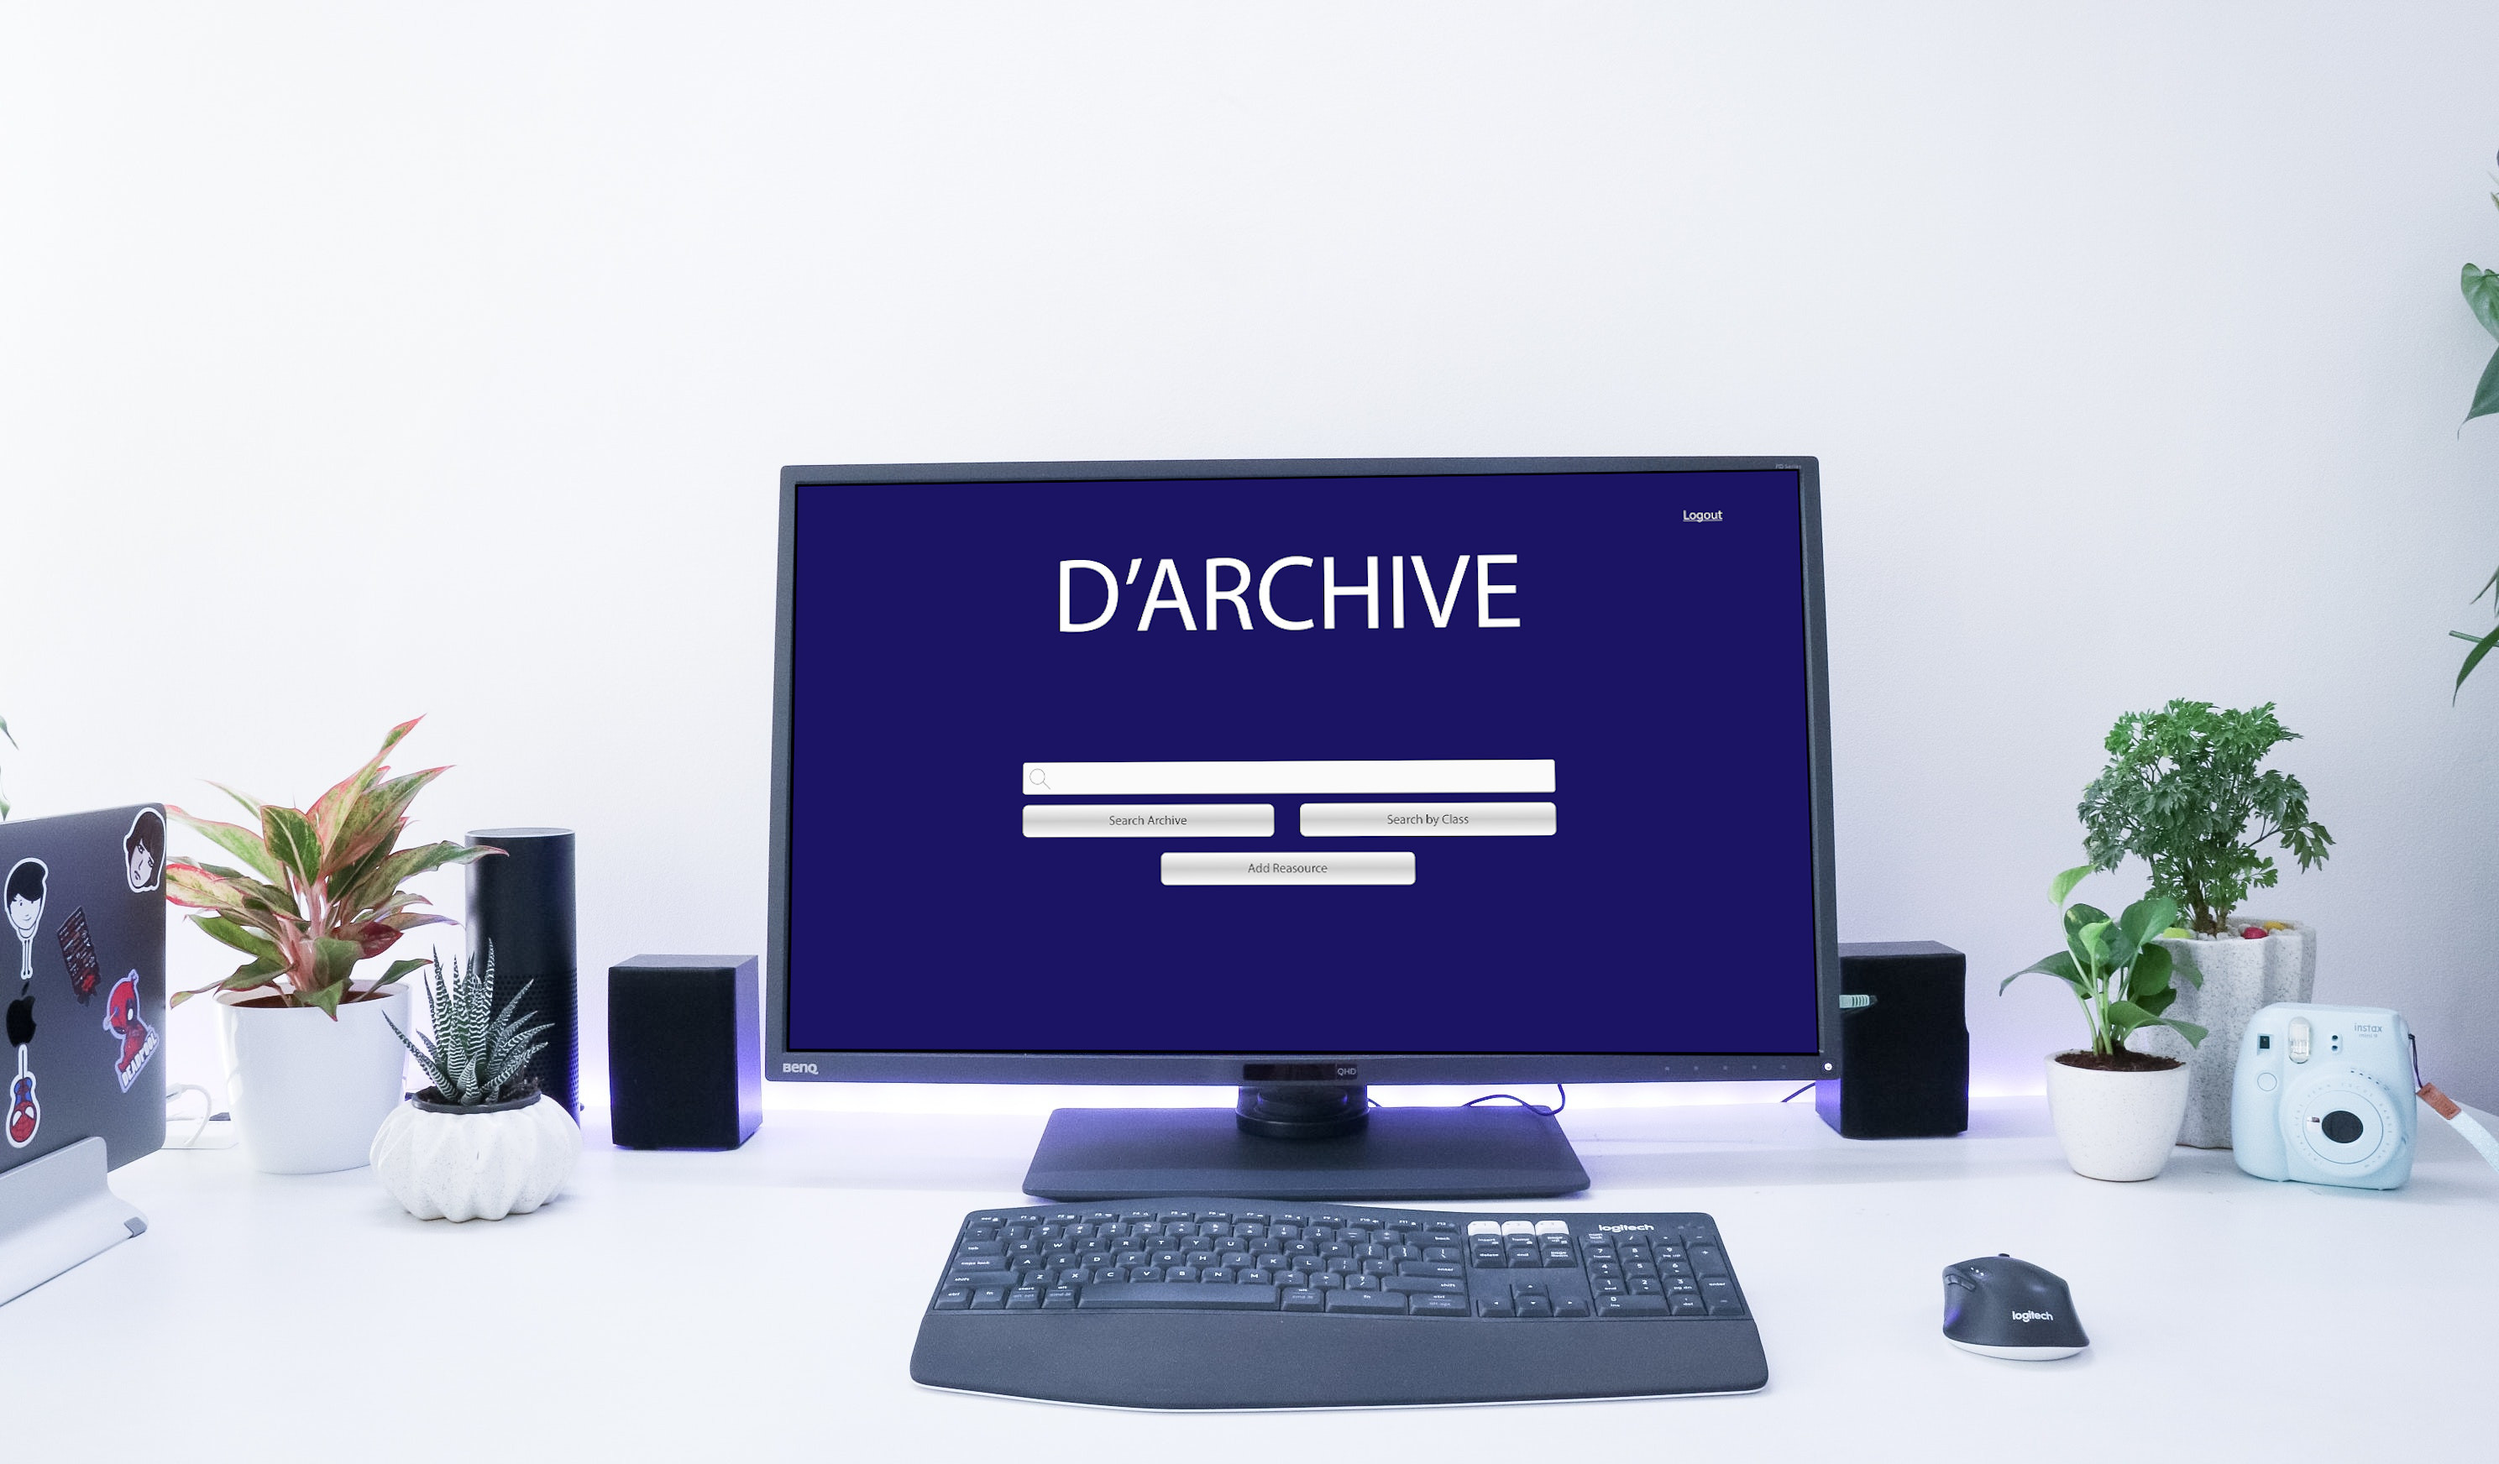
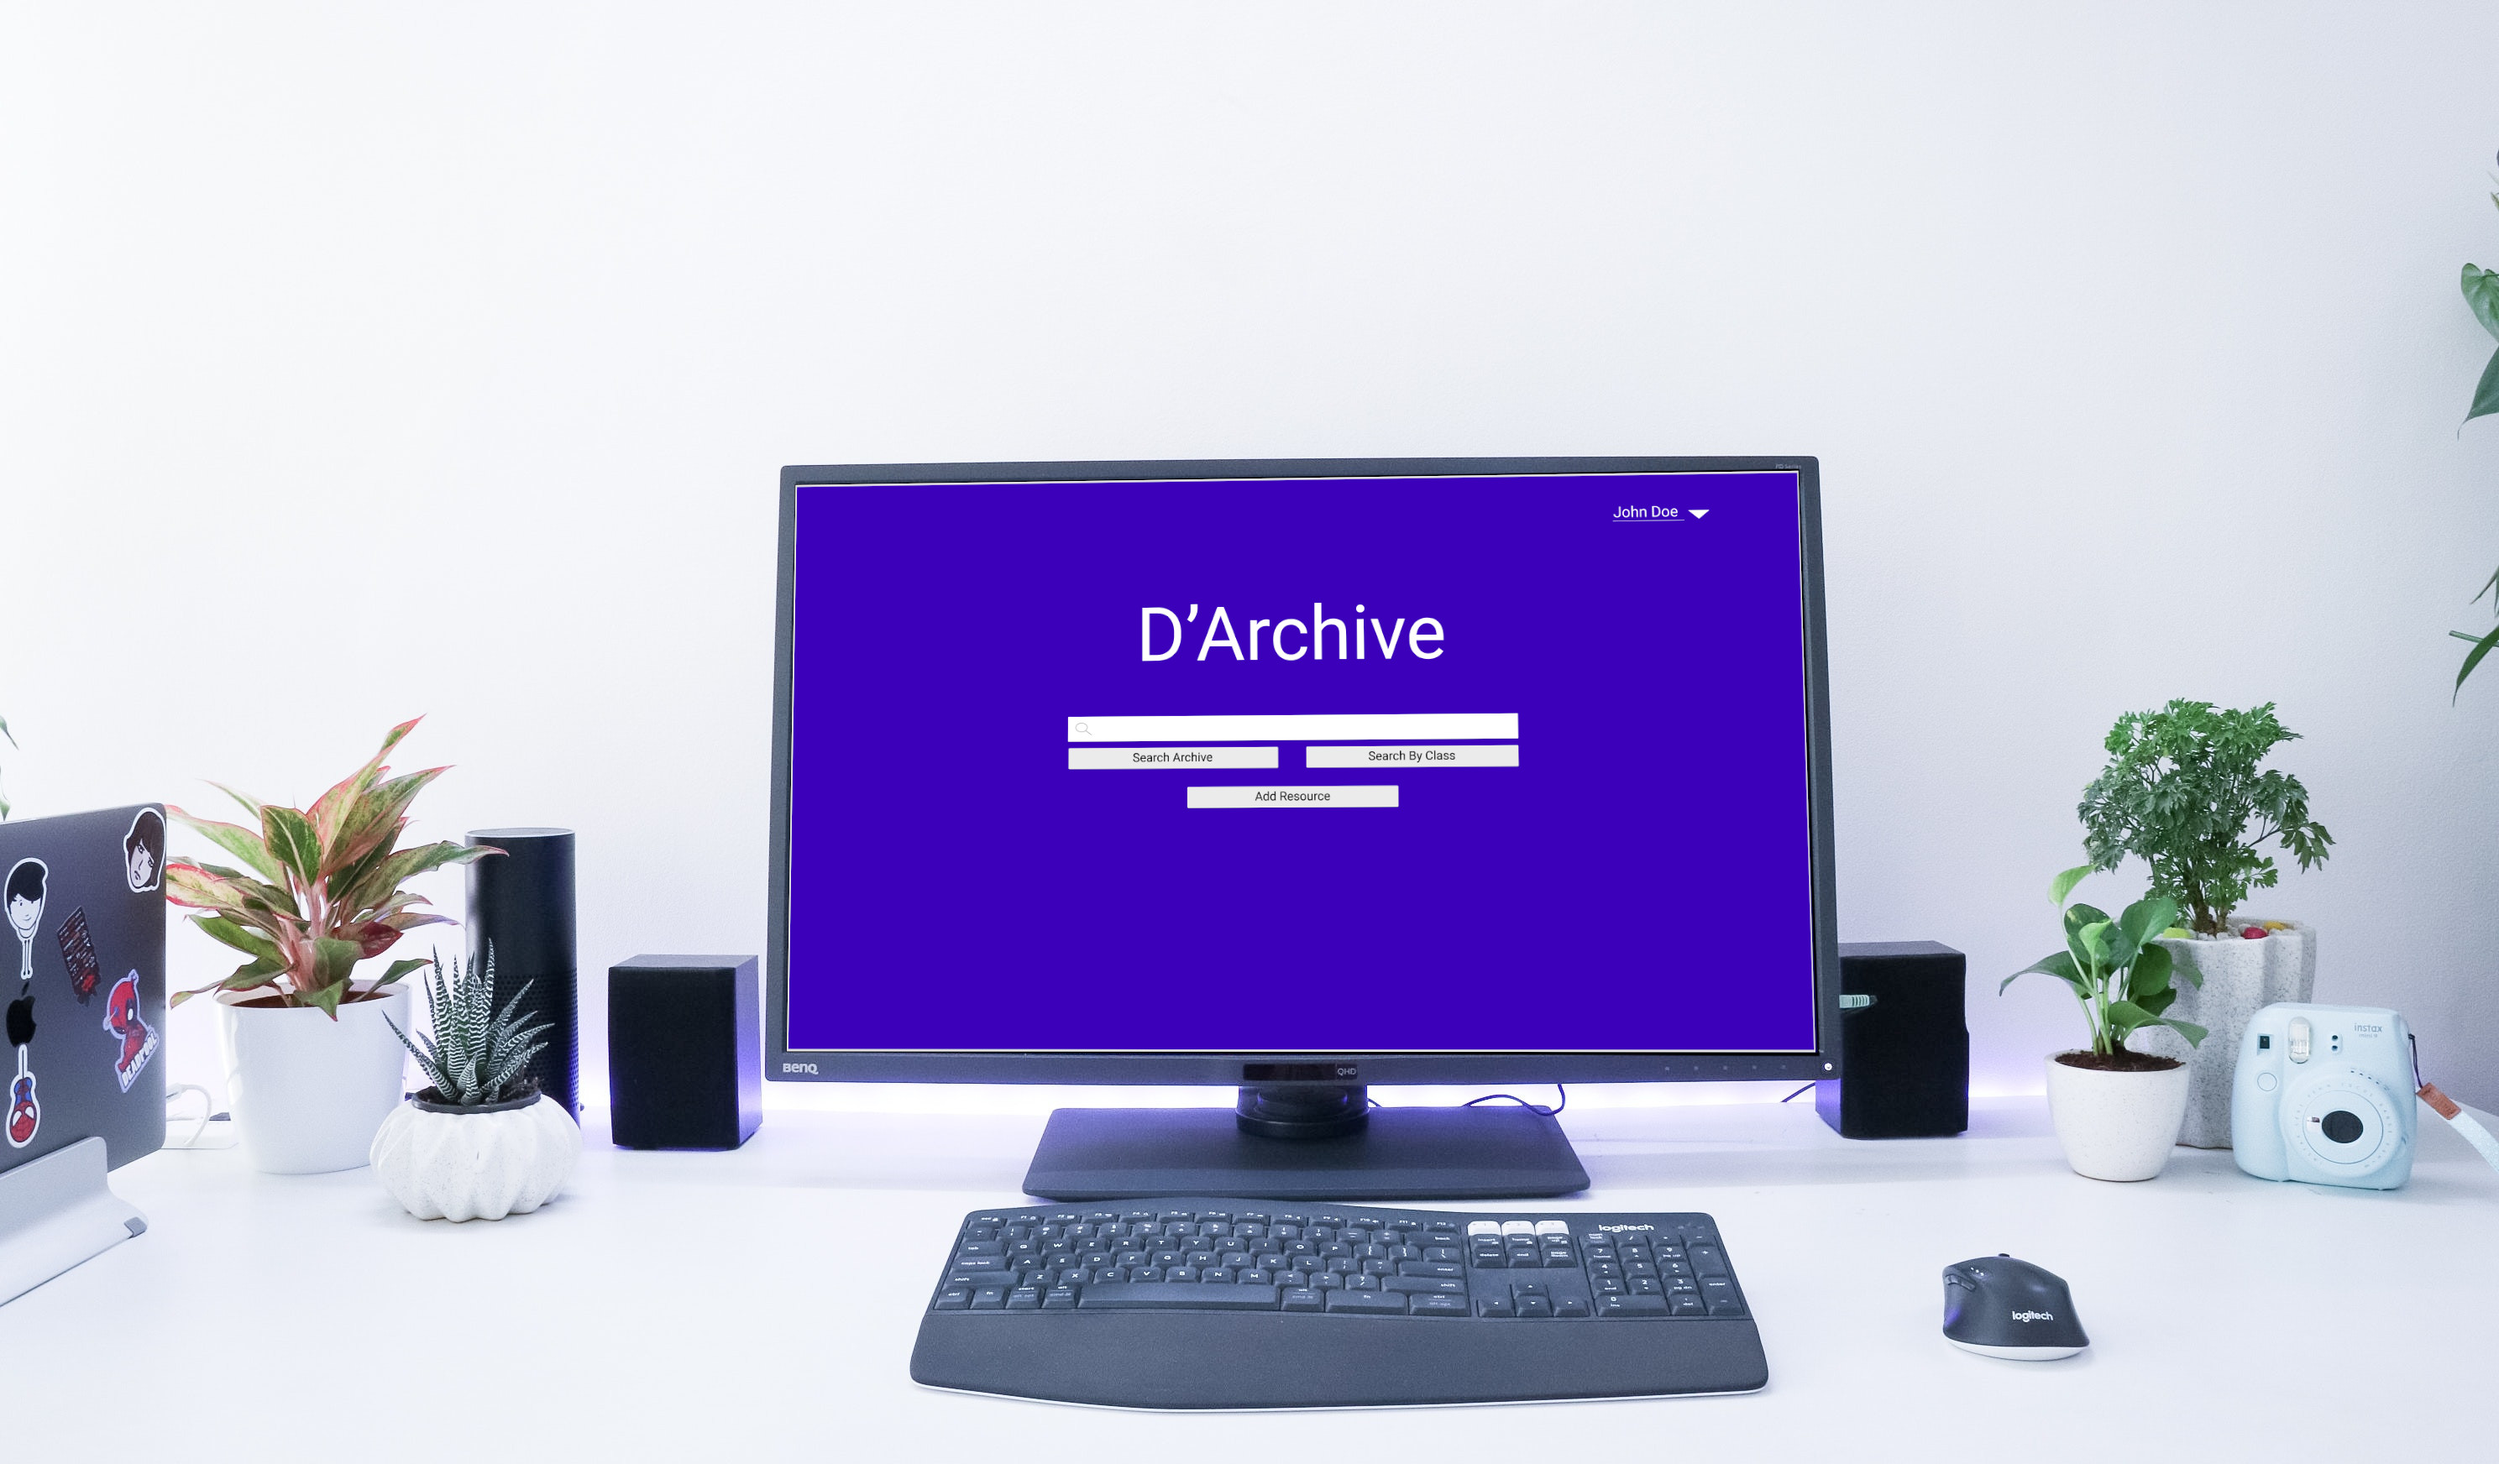
DArchive Update
Added Images of screens

Changed region(s): [[0.3125, 0.3096, 0.75, 0.7431]]

diff --git a/darchive.html b/darchive.html
@@ -118,7 +118,53 @@
 					<figcaption><p class="featured-text">User Flow</p></figcaption>
 				</figure>
 
-				<p>I based the minimalist design partially on Google’s Search Engine since my users were already familiar with it. The idea was if it looked like Google, people would treat it like Google, making the mental model a bit more predictable and allowing onboarding to be easier. For the Search, I created a search results page that allowed you to look at the resources while still being able to see the results. This means you can switch between two results without having to leave the page, saving the students time. The Add feature was a very basic form that you filled out. Some of the initial feedback was that adding Tags were not obvious and that users wanted a way to link resources with specific classes to make it easier for those who don’t know what to look for. So I added a little plus button for tags and a multi-checkbox for classes, since there are only a finite number of classes. I also added a feature Search by Class so that users can find resources based on a class instead of a topic.</p>
+				<p>I based the minimalist design partially on Google’s Search Engine since my users were already familiar with it. The idea was if it looked like Google, people would treat it like Google, making the mental model a bit more predictable and allowing onboarding to be easier.</p>
+				<figure>
+					<img src="image/darchive/Home_Screen.jpg" alt="Home page Low Fidelity">
+					<figcaption><p class="featured-text">Home page Low Fidelity</p></figcaption>
+				</figure>
+
+				<figure>
+					<img src="image/darchive/DArchive_Main_Page.jpg" alt="Home page Mid-Fidelity">
+					<figcaption><p class="featured-text">Home page Mid-Fidelity</p></figcaption>
+				</figure>
+
+				<figure>
+					<img src="image/darchive/Homepage.png" alt="Home page High Fidelity">
+					<figcaption><p class="featured-text">Home page High Fidelity</p></figcaption>
+				</figure>
+
+				<p>For the Search, I created a search results page that allowed you to look at the resources while still being able to see the results. This means you can switch between two results without having to leave the page, saving the students time.</p>
+				<figure>
+					<img src="image/darchive/Search3.jpg" alt="Search Results Page Low Fidelity">
+					<figcaption><p class="featured-text">Search Results Page Low Fidelity</p></figcaption>
+				</figure>
+
+				<figure>
+					<img src="image/darchive/Selected.jpg" alt="Search Results Page Mid-Fidelity">
+					<figcaption><p class="featured-text">Search Results Page Mid-Fidelity</p></figcaption>
+				</figure>
+
+				<figure>
+					<img src="image/darchive/Search.png" alt="Home page High Fidelity">
+					<figcaption><p class="featured-text">Search Results Page High Fidelity</p></figcaption>
+				</figure>
+
+				<p>The Add feature was a very basic form that you filled out. Some of the initial feedback was that adding Tags were not obvious and that users wanted a way to link resources with specific classes to make it easier for those who don’t know what to look for. So I added a little plus button for tags and a multi-checkbox for classes, since there are only a finite number of classes. I also added a feature Search by Class so that users can find resources based on a class instead of a topic.</p>
+				<figure>
+					<img src="image/darchive/Add1.jpg" alt="Add Resource Wizard Low Fidelity">
+					<figcaption><p class="featured-text">Add Resource Wizard Low Fidelity</p></figcaption>
+				</figure>
+
+				<figure>
+					<img src="image/darchive/Add_Resource.jpg" alt="Add Resource Wizard Mid-Fidelity">
+					<figcaption><p class="featured-text">Add Resource Wizard Mid-Fidelity</p></figcaption>
+				</figure>
+
+				<figure>
+					<img src="image/darchive/Add_Wizard.png" alt="Add Resource Wizard High Fidelity">
+					<figcaption><p class="featured-text">Add Resource Wizard High Fidelity</p></figcaption>
+				</figure>
 
 				<figure>
 					<img src="image/darchive/product-evolution-2.png" alt="Evolution of D'Archive">
